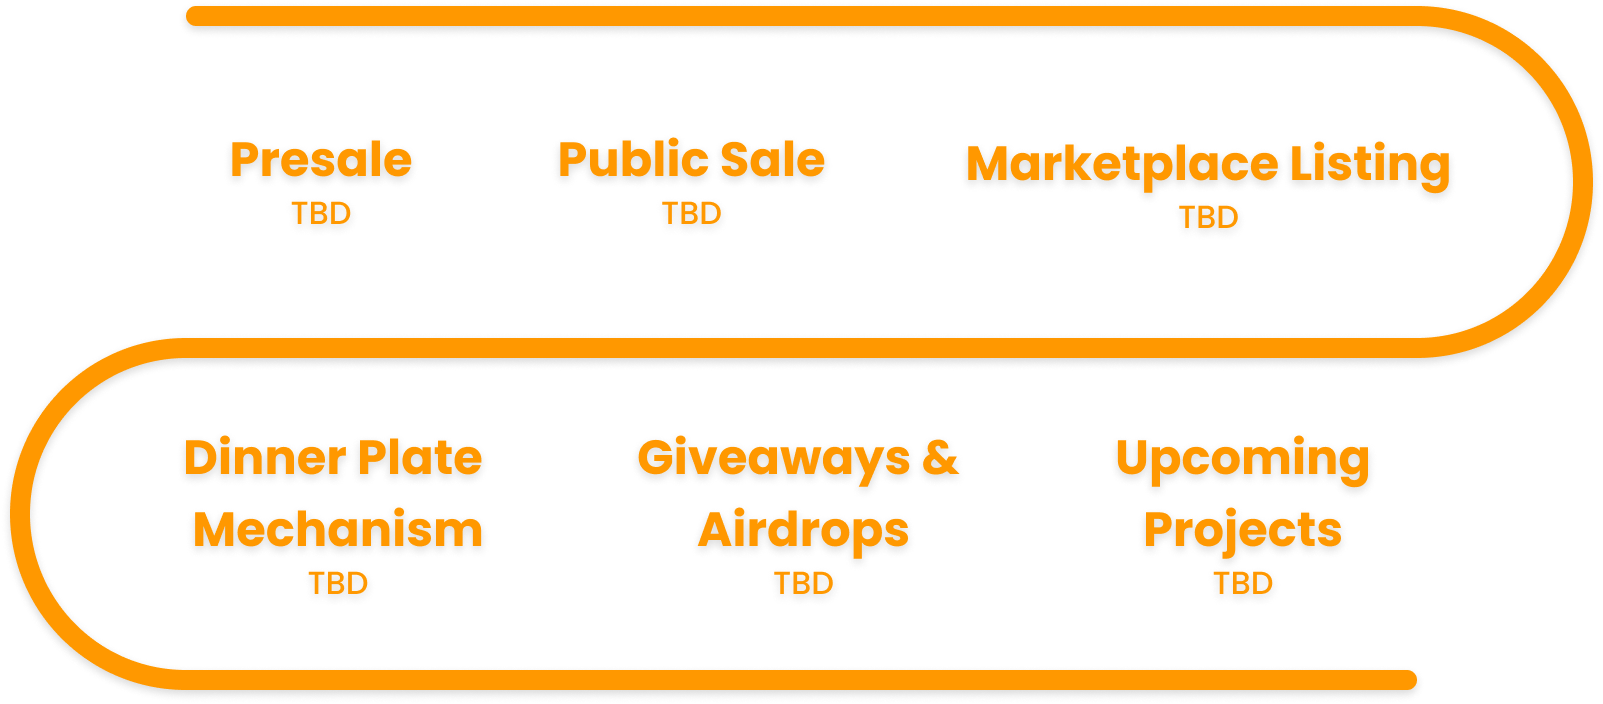
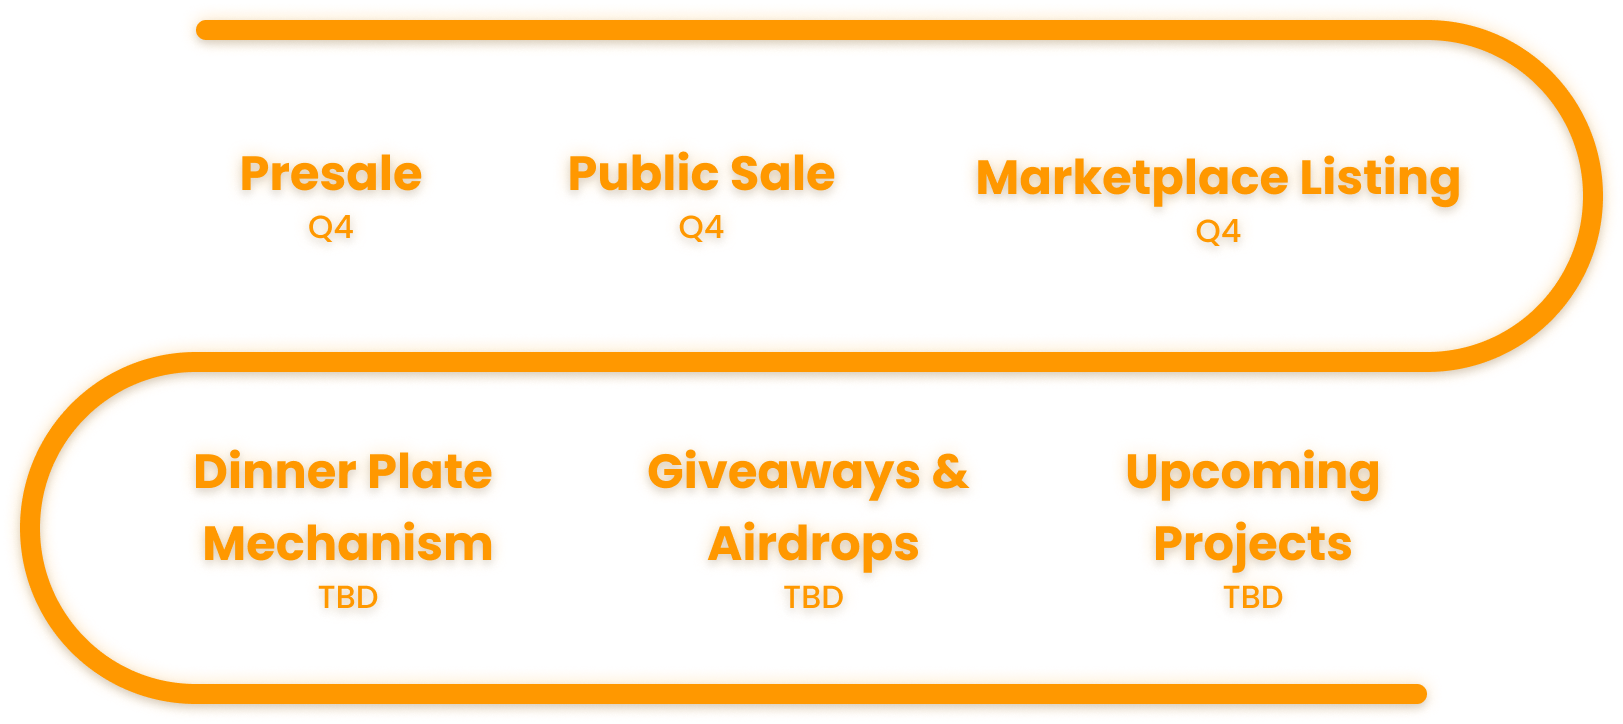
Gtag and Roadmap update

diff --git a/index.html b/index.html
@@ -1,8 +1,14 @@
+<!DOCTYPE html>
 <html lang="en">
   <head>
     <meta charset="UTF-8" />
     <meta http-equiv="X-UA-Compatible" content="IE=edge" />
     <meta name="viewport" content="width=device-width, initial-scale=1.0" />
+    <meta name="theme-color" content="#FF9800" />
+    <meta
+      name="description"
+      content="A deflationary collection. Utilizing burning mechanisms, floor sweeping, and beautiful original duck art. The plan? Ducks to the moon!"
+    />
     <link
       rel="shortcut icon"
       href="./assets/logo-rounded.png"
@@ -10,6 +16,20 @@
     />
     <link rel="stylesheet" href="./style.css" />
     <title>Decentralized Duck Den</title>
+    <!-- Global site tag (gtag.js) - Google Analytics -->
+    <script
+      async
+      src="https://www.googletagmanager.com/gtag/js?id=G-1MLY8DR3M8"
+    ></script>
+    <script>
+      window.dataLayer = window.dataLayer || [];
+      function gtag() {
+        dataLayer.push(arguments);
+      }
+      gtag("js", new Date());
+
+      gtag("config", "G-1MLY8DR3M8");
+    </script>
   </head>
   <body>
     <header>
